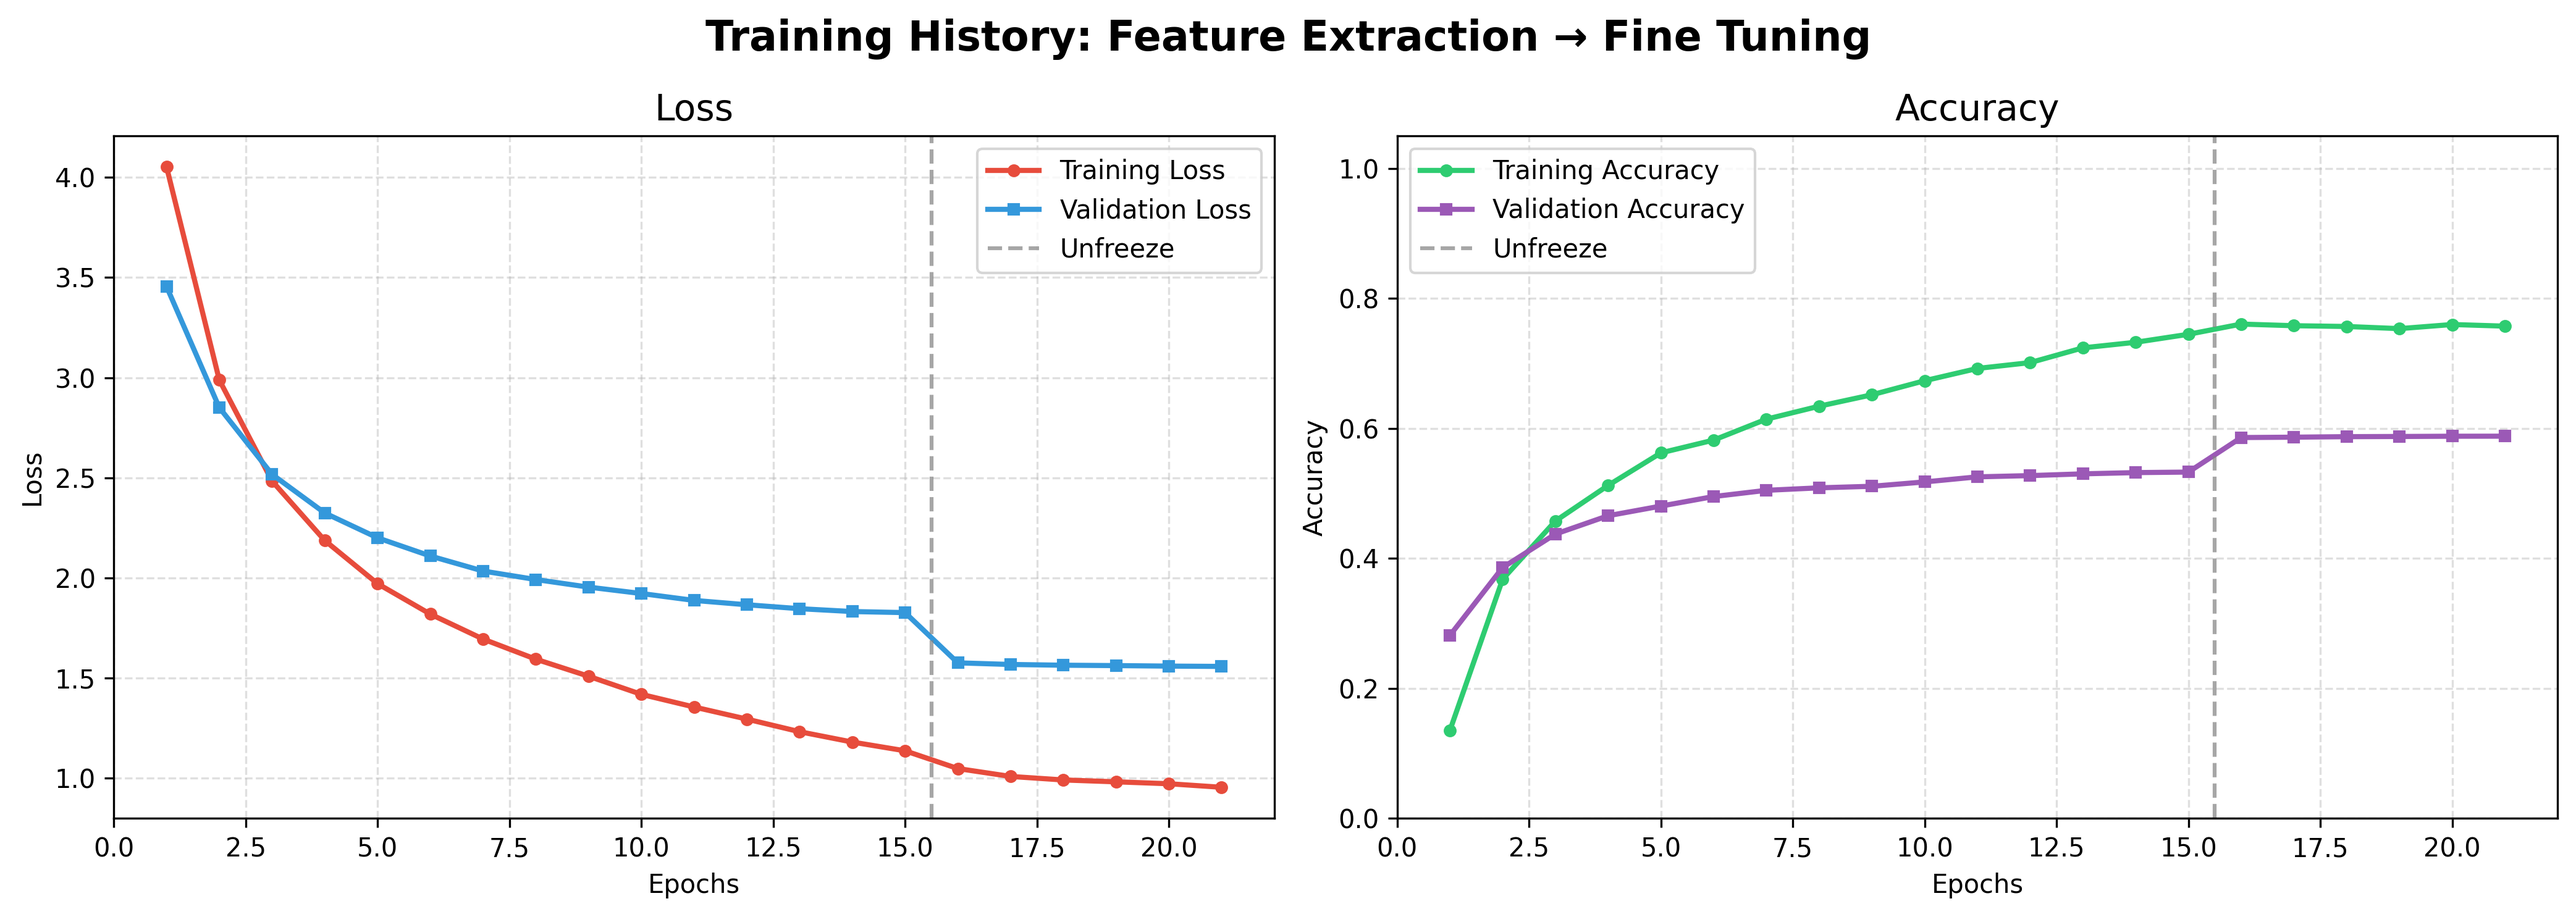
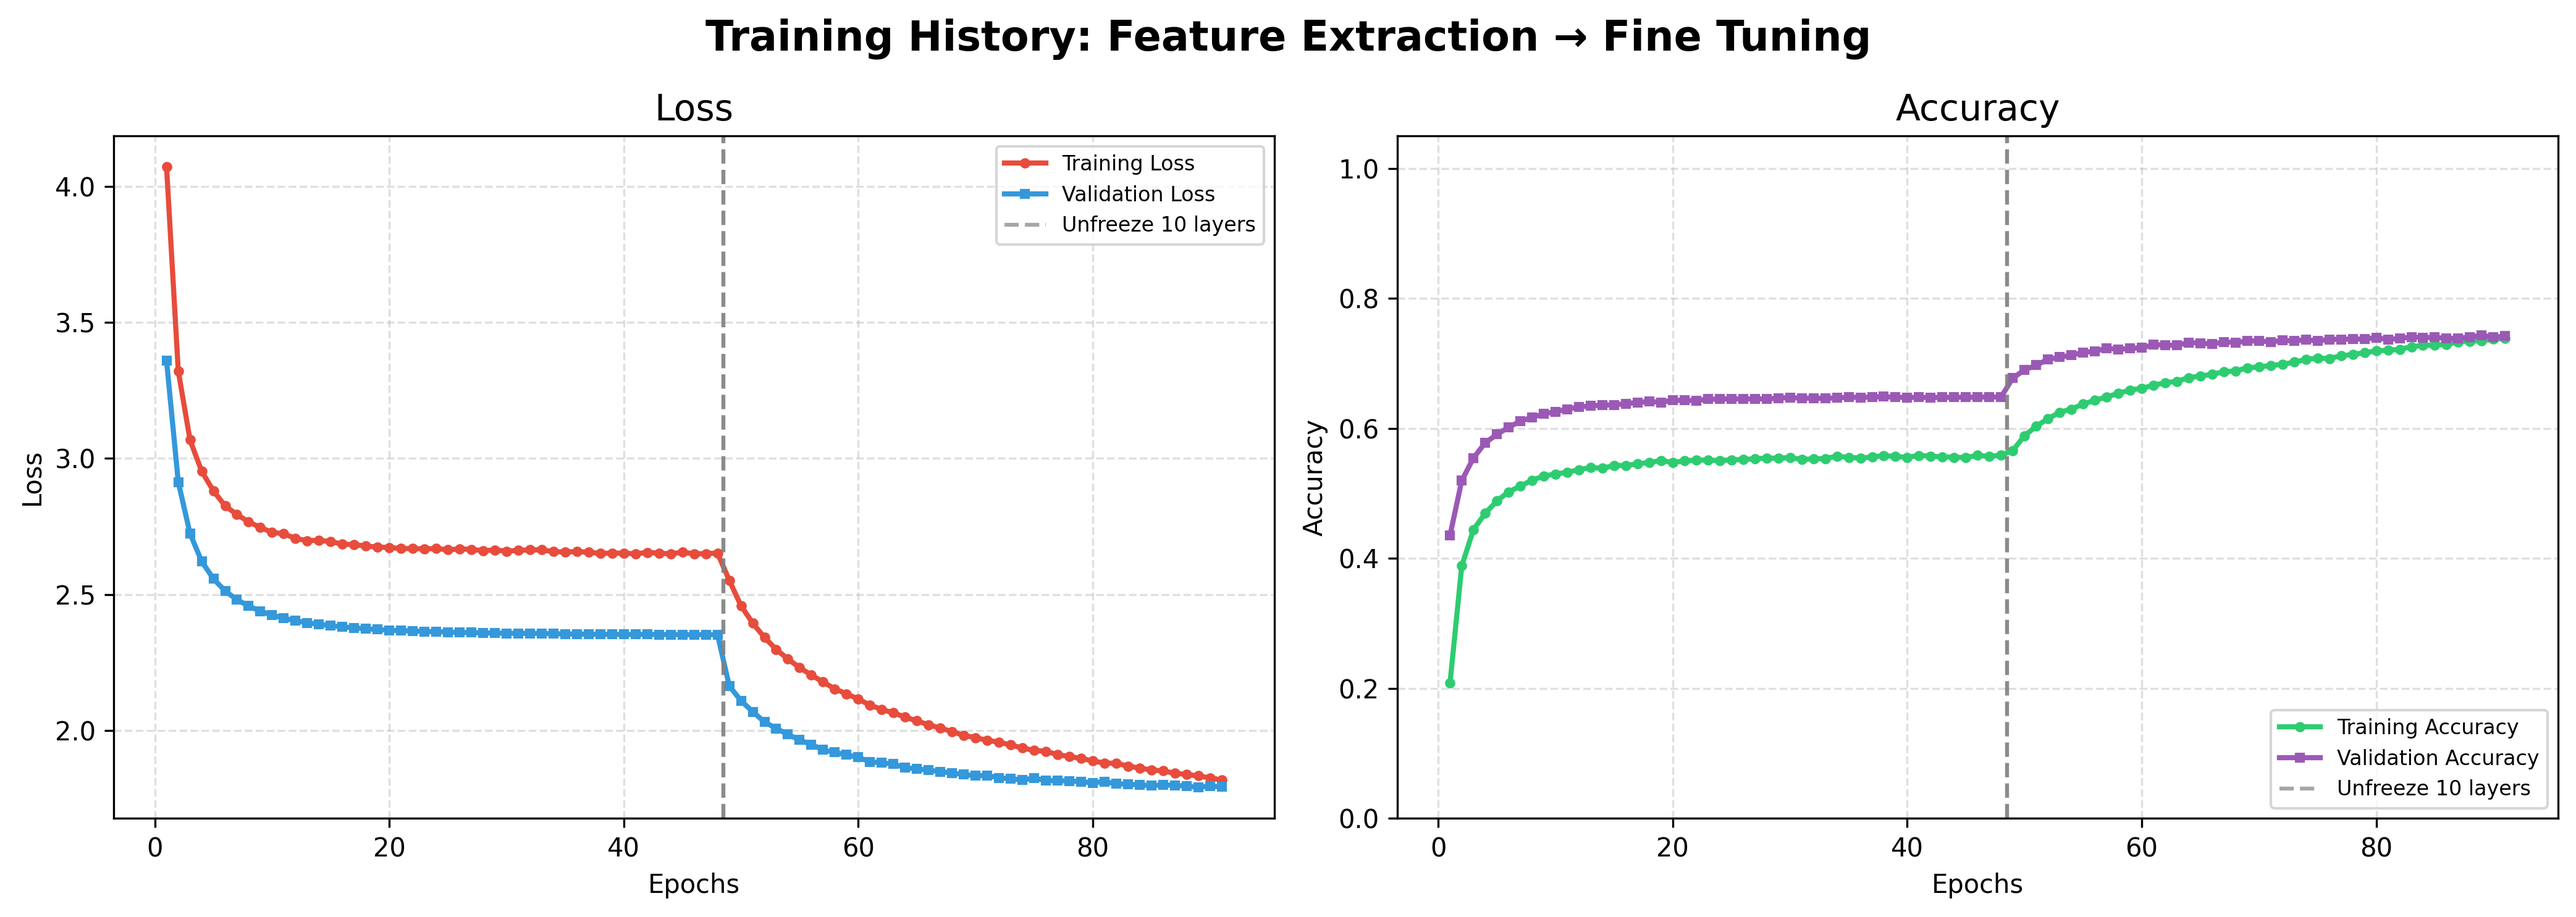
train.py was updated and it will be able to train AI model without getting overfitted , updating also training curves images during feature extraction and fine tuning stage

diff --git a/src/train.py b/src/train.py
@@ -1,51 +1,67 @@
+"""
+train.py
+--------
+The canonical training pipeline for Food Vision 101.
+
+Implements a 2-stage transfer learning strategy:
+  1. Feature Extraction (frozen backbone)
+  2. Fine-Tuning (last 10 layers only)
+
+Design decisions:
+  - Stage 3/4 (deep/unfrozen fine-tuning) intentionally omitted.
+    Experiments showed severe overfitting beyond 10 unfrozen layers
+    (train/val gap >10% with zero val improvement).
+  - L2 regularization, dropout, and label smoothing applied throughout.
+  - Early stopping with aggressive patience prevents wasted compute.
+"""
+
 import os
 os.environ['TF_CPP_MIN_LOG_LEVEL'] = '2'
 
 import warnings
 warnings.filterwarnings('ignore')
-import tensorflow as tf
-tf.get_logger().setLevel('ERROR')
-
-## This for Memory Growth 
-gpus = tf.config.experimental.list_physical_devices('GPU')
-if gpus:
-    for gpu in gpus:
-        tf.config.experimental.set_memory_growth(gpu, True)
 
 import argparse
 import sys
 from pathlib import Path
 
-# Allow running from project root or src/
+import numpy as np
+import tensorflow as tf
+from tensorflow.keras import mixed_precision
+from tensorflow.keras.callbacks import EarlyStopping, ReduceLROnPlateau
+
+# Project path setup
 PROJECT_ROOT = Path(__file__).parent.parent
 sys.path.insert(0, str(PROJECT_ROOT))
 
 from src.data_preparation import create_data_loader
 from src.model_utils import create_model, save_model, unfreeze_model
-from src.evaluation import make_confusion_matrix, plot_combined_history
+from src.evaluation import plot_top_confusions, plot_combined_history
 from src.helper_functions import (
     create_tensorboard_callback,
     create_checkpoint_callback,
-    combine_history,
 )
 
-def train(args):
-    print(f"Train dir: {args.train_dir}")
-    print(f"Test dir: {args.test_dir}")
 
-    from tensorflow.keras import mixed_precision 
+def train(args):
+    # Mixed precision for faster training on modern GPUs
     mixed_precision.set_global_policy("mixed_float16")
-    
-    # ========== 1. Load Data ==========
-    # FIXED: Added class_names as 4th return value
+
+    # GPU memory growth
+    gpus = tf.config.experimental.list_physical_devices('GPU')
+    if gpus:
+        for gpu in gpus:
+            tf.config.experimental.set_memory_growth(gpu, True)
+
+    # ========== 1. Data ==========
     train_data, test_data, num_classes, class_names = create_data_loader(
-        args.train_dir, 
-        args.test_dir, 
+        args.train_dir,
+        args.test_dir,
         batch_size=args.batch_size
     )
-    print(f"Data loaded! {num_classes} classes")
+    print(f"[INFO] Loaded {num_classes} classes")
 
-    # ========== 2. Build Model ==========
+    # ========== 2. Model ==========
     model = create_model(num_classes=num_classes)
     model.summary()
 
@@ -57,67 +73,108 @@ def train(args):
     ckpt_callback, best_chkpt_callback = create_checkpoint_callback(
         checkpoint_dir=args.checkpoint_dir
     )
-    from tensorflow.keras.callbacks import EarlyStopping
+
     early_stop = EarlyStopping(
         monitor='val_loss',
-        patience=args.patience,  # Use from args (default 5)
-        restore_best_weights=True
+        patience=args.patience,
+        restore_best_weights=True,
+        min_delta=0.001,
+        verbose=1
     )
 
-    print("Callbacks created!")
+    lr_reducer = ReduceLROnPlateau(
+        monitor='val_loss',
+        factor=0.5,
+        patience=3,
+        min_lr=1e-7,
+        min_delta=0.001,
+        verbose=1
+    )
 
     # ========== 4. Stage 1: Feature Extraction ==========
+    print("\n" + "="*50)
     print("Stage 01: Feature Extraction")
+    print("="*50)
+
     feature_history = model.fit(
         train_data,
         epochs=args.initial_epochs,
         steps_per_epoch=len(train_data),
         validation_data=test_data,
-        validation_steps=len(test_data),  
-        callbacks=[tb_callback, ckpt_callback, early_stop, best_chkpt_callback]
+        validation_steps=len(test_data),
+        callbacks=[tb_callback, ckpt_callback, early_stop, lr_reducer, best_chkpt_callback]
     )
 
-    # ========== 5. Stage 2: Fine Tuning ==========
-    print("Stage 02: Fine Tuning")
-    unfreeze_model(model=model)
+    # ========== 5. Stage 2: Fine-Tuning (10 layers) ==========
+    print("\n" + "="*50)
+    print("Stage 02: Fine-Tuning (last 10 layers)")
+    print("="*50)
+
+    unfreeze_model(model=model, num_layers=10)
+
+    model.compile(
+        optimizer=tf.keras.optimizers.Adam(learning_rate=1e-4),
+        loss=tf.keras.losses.CategoricalCrossentropy(label_smoothing=0.1),
+        metrics=['accuracy']
+    )
+
     fine_history = model.fit(
         train_data,
         epochs=args.initial_epochs + args.fine_tune_epochs,
         initial_epoch=feature_history.epoch[-1],
         steps_per_epoch=len(train_data),
         validation_data=test_data,
-        validation_steps=len(test_data),  # FIXED: Full test set
-        callbacks=[tb_callback, ckpt_callback, early_stop, best_chkpt_callback]
+        validation_steps=len(test_data),
+        callbacks=[tb_callback, ckpt_callback, early_stop, lr_reducer, best_chkpt_callback]
     )
 
-    # ========== 6. Save Model ==========
+    # ========== 6. Evaluation ==========
+    print("\n[INFO] Generating confusion matrix...")
+    y_pred_probs = model.predict(test_data, verbose=1)
+    y_pred = np.argmax(y_pred_probs, axis=1)
+
+    y_true = []
+    for _, labels in test_data:
+        y_true.extend(np.argmax(labels.numpy(), axis=1))
+    y_true = np.array(y_true[:len(y_pred)])
+
+    plot_top_confusions(
+        y_true=y_true,
+        y_pred=y_pred,
+        classes=class_names,
+        top_n=20,
+        savefig=True,
+        save_path="images/top_confusions.png"
+    )
+
+    # ========== 7. Save & Plot ==========
     save_model(model, filepath=args.model_save_path)
-    print("Model saved!")
 
-    # ========== 7. Plot Curves ==========
-    combine_history(feature_history, fine_history)
+    plot_combined_history(
+        feature_history,
+        fine_history,
+        savefig=True,
+        save_path=args.save_training_curves
+    )
+    print(f"[INFO] Training curves saved to {args.save_training_curves}")
 
-    if args.save_training_curves:
-        print(f"Save loss curves into {args.save_training_curves} path")
-        plot_combined_history(feature_history, fine_history, savefig=True, save_path=args.save_training_curves)
-        print("loss curves saved!!")
 
 if __name__ == "__main__":
-    parser = argparse.ArgumentParser(description="Food Vision 101 Training")
-    parser.add_argument("--train_dir", type=str, required=True, help="Path to training data")
-    parser.add_argument("--test_dir", type=str, required=True, help="Path to test data")
-    parser.add_argument("--initial_epochs", type=int, default=20)
-    parser.add_argument("--fine_tune_epochs", type=int, default=15)
-    parser.add_argument("--batch_size", type=int, default=32, help="Adjust based on VRAM. Use 16 for RTX 3070 8GB")
-    parser.add_argument("--patience", type=int, default=5, help="Early stopping patience")
-    parser.add_argument("--log_dir", type=str, default="Tensorflow_hub_log")
-    parser.add_argument("--experiment_name", type=str, default="EfficientnetV2B0")
+    parser = argparse.ArgumentParser(
+        description="Food Vision 101 — Professional Training Pipeline"
+    )
+    parser.add_argument("--train_dir", type=str, required=True)
+    parser.add_argument("--test_dir", type=str, required=True)
+    parser.add_argument("--initial_epochs", type=int, default=50)
+    parser.add_argument("--fine_tune_epochs", type=int, default=40)
+    parser.add_argument("--batch_size", type=int, default=32)
+    parser.add_argument("--patience", type=int, default=7,
+                        help="Early stopping patience (aggressive to prevent overfitting)")
+    parser.add_argument("--log_dir", type=str, default="logs")
+    parser.add_argument("--experiment_name", type=str, default="efficientnetv2b0_food101")
     parser.add_argument("--checkpoint_dir", type=str, default="models/checkpoints")
-    parser.add_argument("--model_save_path", type=str, default="models/food_classifier.keras")
-    parser.add_argument("--confusion_matrix", action="store_true", default=True)
-    parser.add_argument("--savefig", action="store_true", help="Save training images to images/folders")
-    parser.add_argument("--save_training_curves", type=str, default="images/combined_training_curves.png",
-                        help="Save training loss curves")
+    parser.add_argument("--model_save_path", type=str, default="models/full_food_classifier.keras")
+    parser.add_argument("--save_training_curves", type=str, default="images/combined_training_curves.png")
 
     args = parser.parse_args()
     train(args)

diff --git a/src/evaluation.py b/src/evaluation.py
@@ -113,49 +113,93 @@ def make_confusion_matrix(y_true, y_pred, classes=None, figsize=(100, 100),
     plt.show()
     return fig
   
-def plot_combined_history(feature_history, fine_history, savefig=False, save_path="images/combined_training_curves.png"):
+def plot_combined_history(*histories, savefig=False, save_path="images/combined_training_curves_full.png"):
     """
-    Plots feature extraction and fine-tuning histories as one continuous curve.
+    Plots multiple training histories (feature extraction + multiple fine-tuning stages)
+    as one continuous curve with unfreeze markers.
+    
+    Usage:
+        plot_combined_history(feature_history, fine_history_1, fine_history_2, fine_history_3)
     """
-    # Combine epochs
-    feat_epochs = list(range(1, len(feature_history.history['loss']) + 1))
-    fine_start = len(feat_epochs)
-    fine_epochs = list(range(fine_start + 1, fine_start + len(fine_history.history['loss']) + 1))
+    # Combine all histories
+    all_loss = []
+    all_val_loss = []
+    all_acc = []
+    all_val_acc = []
+    all_epochs = []
     
-    # Combine losses
-    all_loss = feature_history.history['loss'] + fine_history.history['loss']
-    all_val_loss = feature_history.history.get('val_loss', []) + fine_history.history.get('val_loss', [])
-    all_acc = feature_history.history['accuracy'] + fine_history.history['accuracy']
-    all_val_acc = feature_history.history.get('val_accuracy', []) + fine_history.history.get('val_accuracy', [])
+    unfreeze_points = []  # Points where unfreezing happened
+    current_epoch = 0
     
-    all_epochs = feat_epochs + fine_epochs
+    for i, history in enumerate(histories):
+        if history is None:
+            continue
+            
+        num_epochs = len(history.history['loss'])
+        epochs = list(range(current_epoch + 1, current_epoch + num_epochs + 1))
+        
+        all_loss.extend(history.history['loss'])
+        all_val_loss.extend(history.history.get('val_loss', []))
+        all_acc.extend(history.history['accuracy'])
+        all_val_acc.extend(history.history.get('val_accuracy', []))
+        all_epochs.extend(epochs)
+        
+        # Mark unfreeze point (except for first history = feature extraction)
+        if i > 0:
+            unfreeze_points.append(current_epoch + 0.5)
+        
+        current_epoch += num_epochs
     
+    # Create figure
     fig, axes = plt.subplots(1, 2, figsize=(14, 5))
     fig.suptitle('Training History: Feature Extraction → Fine Tuning', fontsize=16, fontweight='bold')
     
     # Loss plot
     ax1 = axes[0]
-    ax1.plot(all_epochs, all_loss, 'o-', color='#E74C3C', linewidth=2, label='Training Loss', markersize=4)
+    ax1.plot(all_epochs, all_loss, 'o-', color='#E74C3C', linewidth=2, label='Training Loss', markersize=3)
     if all_val_loss:
-        ax1.plot(all_epochs, all_val_loss, 's-', color='#3498DB', linewidth=2, label='Validation Loss', markersize=4)
-    ax1.axvline(x=fine_start + 0.5, color='gray', linestyle='--', alpha=0.7, label='Unfreeze')
+        ax1.plot(all_epochs, all_val_loss, 's-', color='#3498DB', linewidth=2, label='Validation Loss', markersize=3)
+    
+    # Add unfreeze markers
+    for point in unfreeze_points:
+        ax1.axvline(x=point, color='gray', linestyle='--', alpha=0.7)
+    
+    # Add legend for unfreeze stages
+    if len(unfreeze_points) >= 1:
+        ax1.axvline(x=unfreeze_points[0], color='gray', linestyle='--', alpha=0.7, label='Unfreeze 10 layers')
+    if len(unfreeze_points) >= 2:
+        ax1.axvline(x=unfreeze_points[1], color='orange', linestyle='--', alpha=0.7, label='Unfreeze 30 layers')
+    if len(unfreeze_points) >= 3:
+        ax1.axvline(x=unfreeze_points[2], color='green', linestyle='--', alpha=0.7, label='Unfreeze ALL')
+    
     ax1.set_title('Loss', fontsize=14)
     ax1.set_xlabel('Epochs')
     ax1.set_ylabel('Loss')
-    ax1.legend()
+    ax1.legend(loc='upper right', fontsize=8)
     ax1.grid(True, linestyle='--', alpha=0.4)
     
     # Accuracy plot
     ax2 = axes[1]
-    ax2.plot(all_epochs, all_acc, 'o-', color='#2ECC71', linewidth=2, label='Training Accuracy', markersize=4)
+    ax2.plot(all_epochs, all_acc, 'o-', color='#2ECC71', linewidth=2, label='Training Accuracy', markersize=3)
     if all_val_acc:
-        ax2.plot(all_epochs, all_val_acc, 's-', color='#9B59B6', linewidth=2, label='Validation Accuracy', markersize=4)
-    ax2.axvline(x=fine_start + 0.5, color='gray', linestyle='--', alpha=0.7, label='Unfreeze')
+        ax2.plot(all_epochs, all_val_acc, 's-', color='#9B59B6', linewidth=2, label='Validation Accuracy', markersize=3)
+    
+    # Add same unfreeze markers
+    for point in unfreeze_points:
+        ax2.axvline(x=point, color='gray', linestyle='--', alpha=0.7)
+    
+    if len(unfreeze_points) >= 1:
+        ax2.axvline(x=unfreeze_points[0], color='gray', linestyle='--', alpha=0.7, label='Unfreeze 10 layers')
+    if len(unfreeze_points) >= 2:
+        ax2.axvline(x=unfreeze_points[1], color='orange', linestyle='--', alpha=0.7, label='Unfreeze 30 layers')
+    if len(unfreeze_points) >= 3:
+        ax2.axvline(x=unfreeze_points[2], color='green', linestyle='--', alpha=0.7, label='Unfreeze ALL')
+    
     ax2.set_title('Accuracy', fontsize=14)
     ax2.set_xlabel('Epochs')
     ax2.set_ylabel('Accuracy')
     ax2.set_ylim(0, 1.05)
-    ax2.legend()
+    ax2.legend(loc='lower right', fontsize=8)
     ax2.grid(True, linestyle='--', alpha=0.4)
     
     plt.tight_layout()
@@ -171,7 +215,7 @@ def plot_combined_history(feature_history, fine_history, savefig=False, save_pat
 
 
 def plot_top_confusions(y_true, y_pred, classes, top_n=20, figsize=(14, 10), 
-                        savefig=False, save_path="images/top_confusions.png"):
+                        savefig=False, save_path="images/top_confusions_full.png"):
     """
     Plots only the most confused class pairs (off-diagonal elements).
     """

diff --git a/src/model_utils.py b/src/model_utils.py
@@ -16,12 +16,12 @@ def create_model(input_shape = (224,224,3) ,num_classes = 101):
     x = base_model(inputs , training = False)
     x = layers.GlobalAveragePooling2D(name = "Global_average_pooling_layer")(x)
     # Regularization using Droput layer (Role : "prevent overfitting ")
-    x = layers.Dropout(0.3)(x)
+    x = layers.Dropout(0.2)(x)
     # output layer
-    output = layers.Dense(num_classes, activation  = "softmax" , name = "output_layer")(x)
+    output = layers.Dense(num_classes, activation  = "softmax" , name = "output_layer",kernel_regularizer=tf.keras.regularizers.l2(0.001))(x)
     model = tf.keras.Model(inputs , output)
-    model.compile(loss = "categorical_crossentropy",
-                  optimizer = tf.keras.optimizers.Adam(),
+    model.compile(loss=tf.keras.losses.CategoricalCrossentropy(label_smoothing=0.1),
+                  optimizer = tf.keras.optimizers.Adam(1e-4),
                   metrics = ["accuracy"])
     return model
 
@@ -31,12 +31,12 @@ def save_model(model , filepath = "models/food_classifier.keras"):
     print(f"Model saved succeesfully at {filepath}")
 
 
-def unfreeze_model(model , num_layers = 10):
+def unfreeze_model(model , num_layers):
     efficientnet_base_model = model.layers[1] ## selecting the base model from our full model (view the summary of the model )
     efficientnet_base_model.trainable = True
     for layer in efficientnet_base_model.layers[:-num_layers]:
       layer.trainable = False #unfreeze the last 10 layer in our model
-    model.compile(loss = "categorical_crossentropy",
+    model.compile(loss=tf.keras.losses.CategoricalCrossentropy(label_smoothing=0.1),
                   optimizer = tf.keras.optimizers.Adam(1e-5), ## change the learning rate with *10 much small than the first time
                                                               ## to prevent our model losing the general feature that has been extracted in feature extraction phase
 

diff --git a/src/data_preparation.py b/src/data_preparation.py
@@ -21,7 +21,7 @@ def augment(image, label):
     image = tf.image.resize_with_crop_or_pad(image, original_shape[1], original_shape[2])
 
     # 3. Brightness, Contrast & Saturation
-    image = tf.image.random_brightness(image, max_delta=32.0 / 255.0)
+    image = tf.image.random_brightness(image, max_delta=16.0 / 255.0)
     image = tf.image.random_contrast(image, lower=0.85, upper=1.15)
     image = tf.image.random_saturation(image, lower=0.85, upper=1.15)
     image = tf.clip_by_value(image, 0.0, 255.0)
